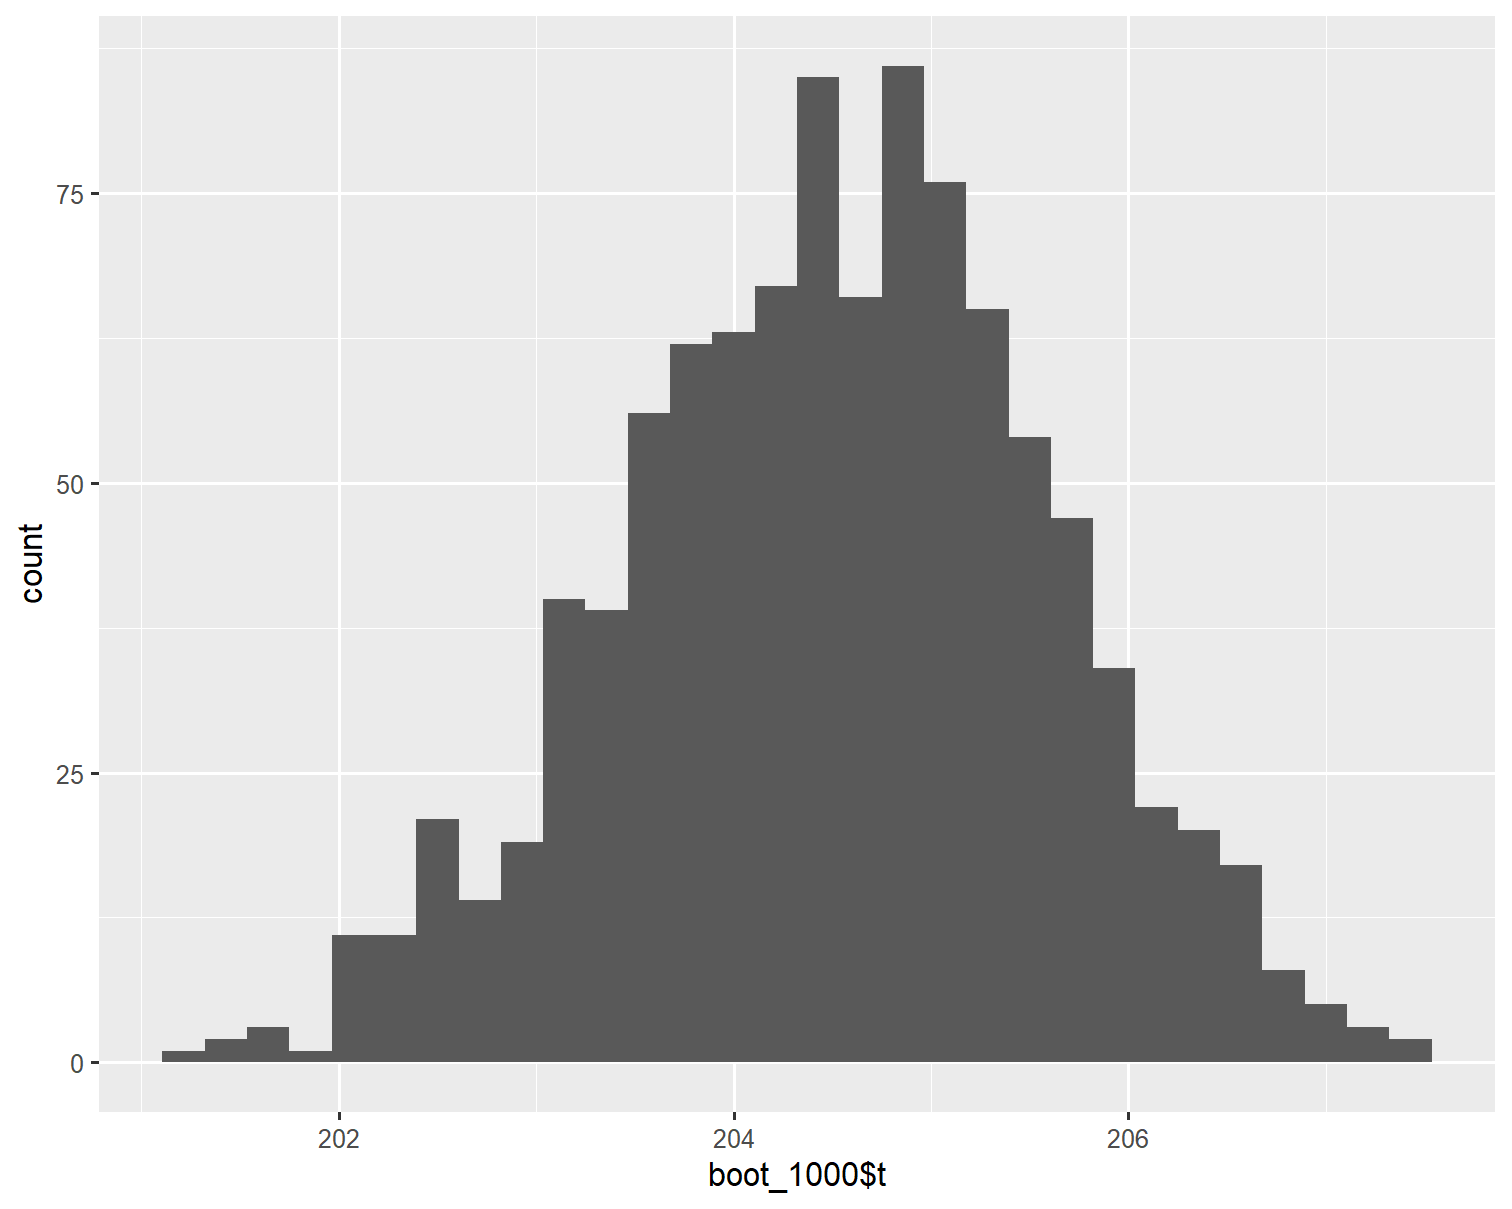
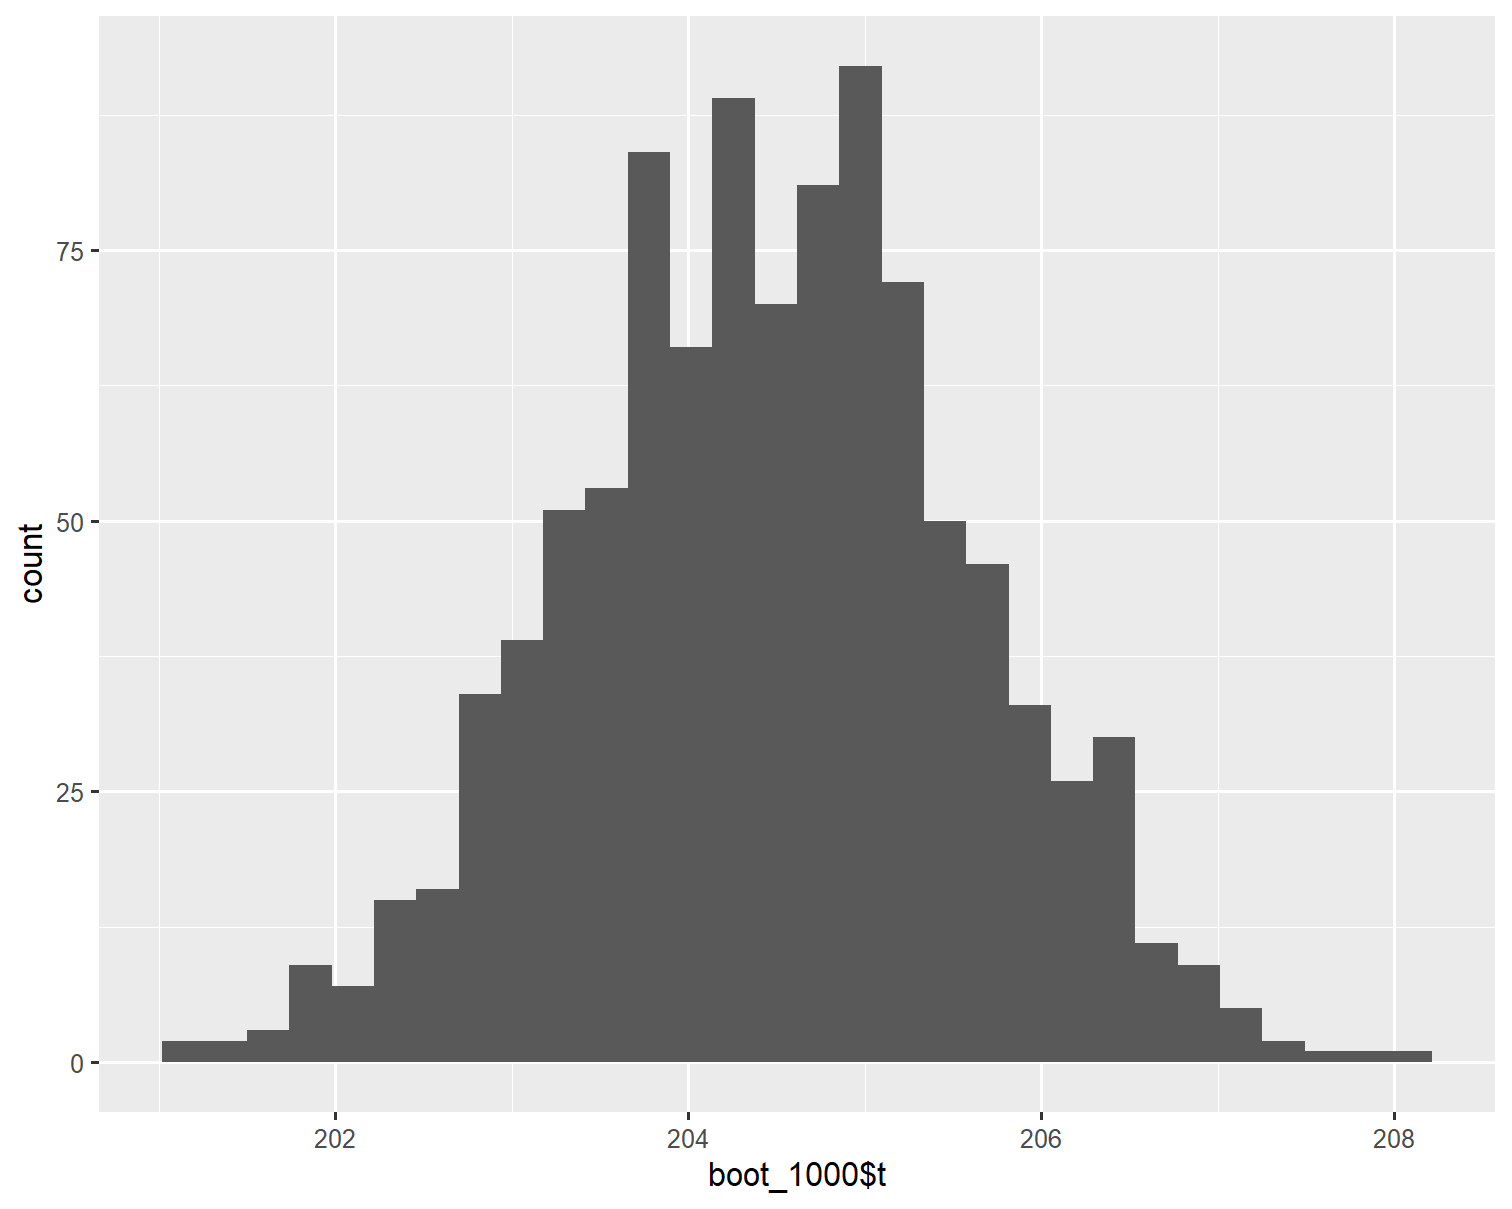
updated slides index

diff --git a/slides/Confidence_intervals.html b/slides/Confidence_intervals.html
@@ -1,10 +1,10 @@
 <!DOCTYPE html>
 <html lang="" xml:lang="">
   <head>
-    <title>Sampling</title>
+    <title>Uncertainty</title>
     <meta charset="utf-8" />
     <meta name="author" content="Philip Leftwich" />
-    <meta name="date" content="2023-07-13" />
+    <meta name="date" content="2023-07-18" />
     <script src="libs/header-attrs/header-attrs.js"></script>
     <link href="libs/remark-css/default.css" rel="stylesheet" />
     <script src="libs/htmlwidgets/htmlwidgets.js"></script>
@@ -23,7 +23,7 @@
 
 class: title-slide, left, top
 
-# Sampling
+# Uncertainty
 
 ## Standard Error and Confidence Intervals
 
@@ -35,7 +35,7 @@ class: title-slide, left, top
 
 &lt;span style='color:white;'&gt;Slides released under&lt;/span&gt; [CC-BY 2.0](https://creativecommons.org/licenses/by/2.0/)&amp;nbsp;&amp;nbsp;<svg aria-hidden="true" role="img" viewBox="0 0 496 512" style="height:1em;width:0.97em;vertical-align:-0.125em;margin-left:auto;margin-right:auto;font-size:inherit;fill:white;overflow:visible;position:relative;"><path d="M245.83 214.87l-33.22 17.28c-9.43-19.58-25.24-19.93-27.46-19.93-22.13 0-33.22 14.61-33.22 43.84 0 23.57 9.21 43.84 33.22 43.84 14.47 0 24.65-7.09 30.57-21.26l30.55 15.5c-6.17 11.51-25.69 38.98-65.1 38.98-22.6 0-73.96-10.32-73.96-77.05 0-58.69 43-77.06 72.63-77.06 30.72-.01 52.7 11.95 65.99 35.86zm143.05 0l-32.78 17.28c-9.5-19.77-25.72-19.93-27.9-19.93-22.14 0-33.22 14.61-33.22 43.84 0 23.55 9.23 43.84 33.22 43.84 14.45 0 24.65-7.09 30.54-21.26l31 15.5c-2.1 3.75-21.39 38.98-65.09 38.98-22.69 0-73.96-9.87-73.96-77.05 0-58.67 42.97-77.06 72.63-77.06 30.71-.01 52.58 11.95 65.56 35.86zM247.56 8.05C104.74 8.05 0 123.11 0 256.05c0 138.49 113.6 248 247.56 248 129.93 0 248.44-100.87 248.44-248 0-137.87-106.62-248-248.44-248zm.87 450.81c-112.54 0-203.7-93.04-203.7-202.81 0-105.42 85.43-203.27 203.72-203.27 112.53 0 202.82 89.46 202.82 203.26-.01 121.69-99.68 202.82-202.84 202.82z"/></svg><svg aria-hidden="true" role="img" viewBox="0 0 496 512" style="height:1em;width:0.97em;vertical-align:-0.125em;margin-left:auto;margin-right:auto;font-size:inherit;fill:white;overflow:visible;position:relative;"><path d="M314.9 194.4v101.4h-28.3v120.5h-77.1V295.9h-28.3V194.4c0-4.4 1.6-8.2 4.6-11.3 3.1-3.1 6.9-4.7 11.3-4.7H299c4.1 0 7.8 1.6 11.1 4.7 3.1 3.2 4.8 6.9 4.8 11.3zm-101.5-63.7c0-23.3 11.5-35 34.5-35s34.5 11.7 34.5 35c0 23-11.5 34.5-34.5 34.5s-34.5-11.5-34.5-34.5zM247.6 8C389.4 8 496 118.1 496 256c0 147.1-118.5 248-248.4 248C113.6 504 0 394.5 0 256 0 123.1 104.7 8 247.6 8zm.8 44.7C130.2 52.7 44.7 150.6 44.7 256c0 109.8 91.2 202.8 203.7 202.8 103.2 0 202.8-81.1 202.8-202.8.1-113.8-90.2-203.3-202.8-203.3z"/></svg> ]   
 
-&lt;div style = "position: absolute;top: 0px;right: 0px;"&gt;&lt;img src="images/physalia.png" alt="The hex logo for plumbertableau package" width="500"&gt;&lt;/img&gt;&lt;/div&gt;
+&lt;div style = "position: absolute;top: 0px;right: 0px;"&gt;&lt;img src="images/logo.png" alt="The hex logo for plumbertableau package" width="500"&gt;&lt;/img&gt;&lt;/div&gt;
 
 ---
 
@@ -90,8 +90,8 @@ If we took hundreds of samples and independently calculated the mean of each sam
 
 .right-plot[
 
-<div id="htmlwidget-9693a3d618c8c0a51dc1" style="width:120%;height:403.2px;" class="grViz html-widget"></div>
-<script type="application/json" data-for="htmlwidget-9693a3d618c8c0a51dc1">{"x":{"diagram":"digraph {\n  \ngraph[layout = dot]\n\na[label = \"Population mean = 3\"]\nb[label = \"Sample mean = 3\"]\nc[label = \"Sample mean = 4\"]\nd[label = \"Sample mean = 5\"]\ne[label = \"Sample mean = 1\"]\nf[label = \"Sample mean = 2\"]\ng[label = \"Sample mean = 3\"]\nh[label = \"Sample mean = 3\"]\ni[label = \"Sample mean = 4\"]\nj[label = \"Sample mean = 2\"]\n\na -> b\na -> c\na -> d\na -> e\na -> f\na -> g\na -> h\na -> i\na -> j\n\n\n\n}","config":{"engine":"dot","options":null}},"evals":[],"jsHooks":[]}</script>
+<div id="htmlwidget-fda2895a88e945f1334e" style="width:120%;height:403.2px;" class="grViz html-widget"></div>
+<script type="application/json" data-for="htmlwidget-fda2895a88e945f1334e">{"x":{"diagram":"digraph {\n  \ngraph[layout = dot]\n\na[label = \"Population mean = 3\"]\nb[label = \"Sample mean = 3\"]\nc[label = \"Sample mean = 4\"]\nd[label = \"Sample mean = 5\"]\ne[label = \"Sample mean = 1\"]\nf[label = \"Sample mean = 2\"]\ng[label = \"Sample mean = 3\"]\nh[label = \"Sample mean = 3\"]\ni[label = \"Sample mean = 4\"]\nj[label = \"Sample mean = 2\"]\n\na -> b\na -> c\na -> d\na -> e\na -> f\na -> g\na -> h\na -> i\na -> j\n\n\n\n}","config":{"engine":"dot","options":null}},"evals":[],"jsHooks":[]}</script>
 
 ]
 
@@ -187,7 +187,7 @@ For that specific experiment, either the ring landed on the target or it didn't,
 
 There's a 95% chance.
 
-&lt;img src="images/ring-toss.jpg" title="Ring toss" alt="Ring toss" width="70%" /&gt;
+&lt;img src="images/ring-toss.jpg" title="Ring toss" alt="Ring toss" width="60%" /&gt;
 
 ---
 
@@ -349,8 +349,8 @@ boot_1000
 ## 
 ## 
 ## Bootstrap Statistics :
-##     original     bias    std. error
-## t1*  204.506 0.02398214    1.076855
+##     original      bias    std. error
+## t1*  204.506 -0.03177381    1.127815
 ```
 
 ]
@@ -402,8 +402,7 @@ boot.ci(boot_1000,
 ---
 class: center, middle, inverse
 
-# Next time
-# T-distributions
+# Q &amp; A
 
     </textarea>
 <style data-target="print-only">@media screen {.remark-slide-container{display:block;}.remark-slide-scaler{box-shadow:none;}}</style>

diff --git a/slides/Linear-Regression.html b/slides/Linear-Regression.html
@@ -4,7 +4,7 @@
     <title>Regression</title>
     <meta charset="utf-8" />
     <meta name="author" content="Philip Leftwich" />
-    <meta name="date" content="2023-07-15" />
+    <meta name="date" content="2023-07-18" />
     <script src="libs/header-attrs/header-attrs.js"></script>
     <link href="libs/remark-css/default.css" rel="stylesheet" />
     <link rel="stylesheet" href="css/my-theme.css" type="text/css" />
@@ -360,41 +360,9 @@ summary(janka_ls1)
 ## Interpretation - automate with extreme caution
 
 
-.left-code[
-
-
-```r
-summary(janka_ls1)
-```
-
-```
-## 
-## Call:
-## lm(formula = hardness ~ dens, data = janka)
-## 
-## Residuals:
-##     Min      1Q  Median      3Q     Max 
-## -338.40  -96.98  -15.71   92.71  625.06 
-## 
-## Coefficients:
-##              Estimate Std. Error t value Pr(&gt;|t|)    
-## (Intercept) -1160.500    108.580  -10.69 2.07e-12 ***
-## dens           57.507      2.279   25.24  &lt; 2e-16 ***
-## ---
-## Signif. codes:  0 '***' 0.001 '**' 0.01 '*' 0.05 '.' 0.1 ' ' 1
-## 
-## Residual standard error: 183.1 on 34 degrees of freedom
-## Multiple R-squared:  0.9493,	Adjusted R-squared:  0.9478 
-## F-statistic:   637 on 1 and 34 DF,  p-value: &lt; 2.2e-16
-```
-
-]
-
-.right-plot[
-
  **I** fitted a linear model (estimated using OLS) to predict **timber hardness from wood density**. The model explains a statistically significant and substantial proportion of variance (F&lt;sub&gt;1,34&lt;/sub&gt;) = 636.98, p &lt; .001, adj. R&lt;sup&gt;2&lt;/sup&gt; = 0.95). The model shows that for each unit increase in wood density (kg/m^3) there is an **increase** of 57.51 (lbf) on the Janka wood hardness scale (Beta = 57.51, 95% CI [52.88, 62.14], t&lt;sub&gt;34&lt;/sub&gt; = 25.24, p &lt; .001). Model residuals were checked against the assumptions of a standard linear model.
 
-]
+
 
 ---
 
@@ -424,7 +392,7 @@ class: center, middle, inverse
 performance::check_model(janka_ls1, check = "normality") 
 ```
 
-&lt;img src="linear-regression_files/figure-html/unnamed-chunk-19-1.png" width="70%" /&gt;
+&lt;img src="linear-regression_files/figure-html/unnamed-chunk-18-1.png" width="70%" /&gt;
 
 ---
 
@@ -433,7 +401,7 @@ performance::check_model(janka_ls1, check = "normality")
 performance::check_model(janka_ls1, check = "outliers") 
 ```
 
-&lt;img src="linear-regression_files/figure-html/unnamed-chunk-20-1.png" width="70%" /&gt;
+&lt;img src="linear-regression_files/figure-html/unnamed-chunk-19-1.png" width="70%" /&gt;
 ---
 
 
@@ -441,7 +409,7 @@ performance::check_model(janka_ls1, check = "outliers")
 performance::check_model(janka_ls1, check = "homogeneity") 
 ```
 
-&lt;img src="linear-regression_files/figure-html/unnamed-chunk-21-1.png" width="70%" /&gt;
+&lt;img src="linear-regression_files/figure-html/unnamed-chunk-20-1.png" width="70%" /&gt;
 
 ---
 
@@ -450,7 +418,7 @@ performance::check_model(janka_ls1, check = "homogeneity")
 performance::check_model(janka_ls1, check = "outliers") 
 ```
 
-&lt;img src="linear-regression_files/figure-html/unnamed-chunk-22-1.png" width="70%" /&gt;
+&lt;img src="linear-regression_files/figure-html/unnamed-chunk-21-1.png" width="70%" /&gt;
 
 ---
 
@@ -458,7 +426,7 @@ performance::check_model(janka_ls1, check = "outliers")
 performance::check_model(janka_ls1, check = "linearity") 
 ```
 
-&lt;img src="linear-regression_files/figure-html/unnamed-chunk-23-1.png" width="70%" /&gt;
+&lt;img src="linear-regression_files/figure-html/unnamed-chunk-22-1.png" width="70%" /&gt;
 
 ---
 

diff --git a/slides/intro-linear-model.html b/slides/intro-linear-model.html
@@ -4,7 +4,7 @@
     <title>Intro to linear models</title>
     <meta charset="utf-8" />
     <meta name="author" content="Philip Leftwich" />
-    <meta name="date" content="2023-07-13" />
+    <meta name="date" content="2023-07-18" />
     <script src="libs/header-attrs/header-attrs.js"></script>
     <link href="libs/remark-css/default.css" rel="stylesheet" />
     <link rel="stylesheet" href="css/my-theme.css" type="text/css" />
@@ -30,7 +30,7 @@ class: title-slide, left, top
 
 &lt;span style='color:white;'&gt;Slides released under&lt;/span&gt; [CC-BY 2.0](https://creativecommons.org/licenses/by/2.0/)&amp;nbsp;&amp;nbsp;<svg aria-hidden="true" role="img" viewBox="0 0 496 512" style="height:1em;width:0.97em;vertical-align:-0.125em;margin-left:auto;margin-right:auto;font-size:inherit;fill:white;overflow:visible;position:relative;"><path d="M245.83 214.87l-33.22 17.28c-9.43-19.58-25.24-19.93-27.46-19.93-22.13 0-33.22 14.61-33.22 43.84 0 23.57 9.21 43.84 33.22 43.84 14.47 0 24.65-7.09 30.57-21.26l30.55 15.5c-6.17 11.51-25.69 38.98-65.1 38.98-22.6 0-73.96-10.32-73.96-77.05 0-58.69 43-77.06 72.63-77.06 30.72-.01 52.7 11.95 65.99 35.86zm143.05 0l-32.78 17.28c-9.5-19.77-25.72-19.93-27.9-19.93-22.14 0-33.22 14.61-33.22 43.84 0 23.55 9.23 43.84 33.22 43.84 14.45 0 24.65-7.09 30.54-21.26l31 15.5c-2.1 3.75-21.39 38.98-65.09 38.98-22.69 0-73.96-9.87-73.96-77.05 0-58.67 42.97-77.06 72.63-77.06 30.71-.01 52.58 11.95 65.56 35.86zM247.56 8.05C104.74 8.05 0 123.11 0 256.05c0 138.49 113.6 248 247.56 248 129.93 0 248.44-100.87 248.44-248 0-137.87-106.62-248-248.44-248zm.87 450.81c-112.54 0-203.7-93.04-203.7-202.81 0-105.42 85.43-203.27 203.72-203.27 112.53 0 202.82 89.46 202.82 203.26-.01 121.69-99.68 202.82-202.84 202.82z"/></svg><svg aria-hidden="true" role="img" viewBox="0 0 496 512" style="height:1em;width:0.97em;vertical-align:-0.125em;margin-left:auto;margin-right:auto;font-size:inherit;fill:white;overflow:visible;position:relative;"><path d="M314.9 194.4v101.4h-28.3v120.5h-77.1V295.9h-28.3V194.4c0-4.4 1.6-8.2 4.6-11.3 3.1-3.1 6.9-4.7 11.3-4.7H299c4.1 0 7.8 1.6 11.1 4.7 3.1 3.2 4.8 6.9 4.8 11.3zm-101.5-63.7c0-23.3 11.5-35 34.5-35s34.5 11.7 34.5 35c0 23-11.5 34.5-34.5 34.5s-34.5-11.5-34.5-34.5zM247.6 8C389.4 8 496 118.1 496 256c0 147.1-118.5 248-248.4 248C113.6 504 0 394.5 0 256 0 123.1 104.7 8 247.6 8zm.8 44.7C130.2 52.7 44.7 150.6 44.7 256c0 109.8 91.2 202.8 203.7 202.8 103.2 0 202.8-81.1 202.8-202.8.1-113.8-90.2-203.3-202.8-203.3z"/></svg> ]   
 
-&lt;div style = "position: absolute;top: 0px;right: 0px;"&gt;&lt;img src="images/physalia.png" alt="The hex logo for plumbertableau package" width="500"&gt;&lt;/img&gt;&lt;/div&gt;
+&lt;div style = "position: absolute;top: 0px;right: 0px;"&gt;&lt;img src="images/logo.png" alt="The hex logo for plumbertableau package" width="500"&gt;&lt;/img&gt;&lt;/div&gt;
 
 ---
 
@@ -104,7 +104,7 @@ Where:
 
 --
 
-- `x`: is the name of the indepdent variable
+- `x`: is the name of the independent variable
 
 --
 
@@ -354,13 +354,7 @@ Standard error: A measure of the variability or error. The difference betweent t
 
 class: center, middle, inverse
 
-# Next time: T-distributions
-
-### Reading 
-
- Chapter 9: Discovering Statistics using R/SPSS - Andy Field
-
- Chapter 6: The New Statistics - Andy Hector
+# Q &amp; A
 
     </textarea>
 <style data-target="print-only">@media screen {.remark-slide-container{display:block;}.remark-slide-scaler{box-shadow:none;}}</style>

diff --git a/slides/testing.html b/slides/testing.html
@@ -4,7 +4,7 @@
     <title>Testing</title>
     <meta charset="utf-8" />
     <meta name="author" content="Philip Leftwich" />
-    <meta name="date" content="2023-07-13" />
+    <meta name="date" content="2023-07-18" />
     <script src="libs/header-attrs/header-attrs.js"></script>
     <link href="libs/remark-css/default.css" rel="stylesheet" />
     <link rel="stylesheet" href="css/my-theme.css" type="text/css" />
@@ -32,7 +32,7 @@ class: title-slide, left, top
 
 &lt;span style='color:white;'&gt;Slides released under&lt;/span&gt; [CC-BY 2.0](https://creativecommons.org/licenses/by/2.0/)&amp;nbsp;&amp;nbsp;<svg aria-hidden="true" role="img" viewBox="0 0 496 512" style="height:1em;width:0.97em;vertical-align:-0.125em;margin-left:auto;margin-right:auto;font-size:inherit;fill:white;overflow:visible;position:relative;"><path d="M245.83 214.87l-33.22 17.28c-9.43-19.58-25.24-19.93-27.46-19.93-22.13 0-33.22 14.61-33.22 43.84 0 23.57 9.21 43.84 33.22 43.84 14.47 0 24.65-7.09 30.57-21.26l30.55 15.5c-6.17 11.51-25.69 38.98-65.1 38.98-22.6 0-73.96-10.32-73.96-77.05 0-58.69 43-77.06 72.63-77.06 30.72-.01 52.7 11.95 65.99 35.86zm143.05 0l-32.78 17.28c-9.5-19.77-25.72-19.93-27.9-19.93-22.14 0-33.22 14.61-33.22 43.84 0 23.55 9.23 43.84 33.22 43.84 14.45 0 24.65-7.09 30.54-21.26l31 15.5c-2.1 3.75-21.39 38.98-65.09 38.98-22.69 0-73.96-9.87-73.96-77.05 0-58.67 42.97-77.06 72.63-77.06 30.71-.01 52.58 11.95 65.56 35.86zM247.56 8.05C104.74 8.05 0 123.11 0 256.05c0 138.49 113.6 248 247.56 248 129.93 0 248.44-100.87 248.44-248 0-137.87-106.62-248-248.44-248zm.87 450.81c-112.54 0-203.7-93.04-203.7-202.81 0-105.42 85.43-203.27 203.72-203.27 112.53 0 202.82 89.46 202.82 203.26-.01 121.69-99.68 202.82-202.84 202.82z"/></svg><svg aria-hidden="true" role="img" viewBox="0 0 496 512" style="height:1em;width:0.97em;vertical-align:-0.125em;margin-left:auto;margin-right:auto;font-size:inherit;fill:white;overflow:visible;position:relative;"><path d="M314.9 194.4v101.4h-28.3v120.5h-77.1V295.9h-28.3V194.4c0-4.4 1.6-8.2 4.6-11.3 3.1-3.1 6.9-4.7 11.3-4.7H299c4.1 0 7.8 1.6 11.1 4.7 3.1 3.2 4.8 6.9 4.8 11.3zm-101.5-63.7c0-23.3 11.5-35 34.5-35s34.5 11.7 34.5 35c0 23-11.5 34.5-34.5 34.5s-34.5-11.5-34.5-34.5zM247.6 8C389.4 8 496 118.1 496 256c0 147.1-118.5 248-248.4 248C113.6 504 0 394.5 0 256 0 123.1 104.7 8 247.6 8zm.8 44.7C130.2 52.7 44.7 150.6 44.7 256c0 109.8 91.2 202.8 203.7 202.8 103.2 0 202.8-81.1 202.8-202.8.1-113.8-90.2-203.3-202.8-203.3z"/></svg> ]   
 
-&lt;div style = "position: absolute;top: 0px;right: 0px;"&gt;&lt;img src="images/physalia.png" alt="The hex logo for plumbertableau package" width="500"&gt;&lt;/img&gt;&lt;/div&gt;
+&lt;div style = "position: absolute;top: 0px;right: 0px;"&gt;&lt;img src="images/logo.png" alt="The hex logo for plumbertableau package" width="500"&gt;&lt;/img&gt;&lt;/div&gt;
 
 ---
 
